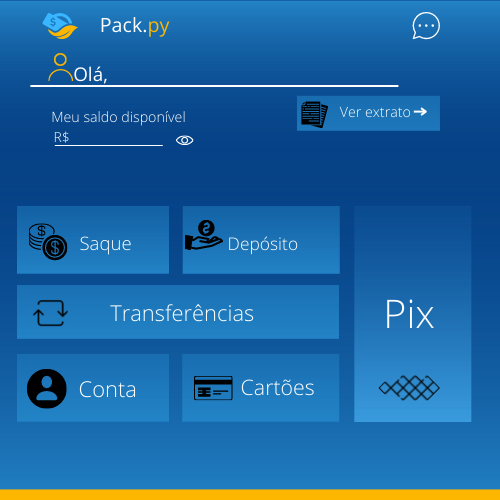
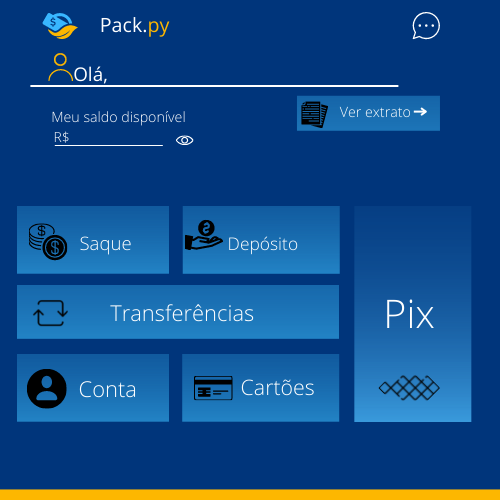
Atv's Bank v1.4

diff --git a/UC-05 - Desenvolver aplicações desktop/Banco Tkinter/PackPy/PACK.PY/packfront.py b/UC-05 - Desenvolver aplicações desktop/Banco Tkinter/PackPy/PACK.PY/packfront.py
@@ -127,6 +127,8 @@ user = PhotoImage(file='Foto/conta cliente.png')
 on_image = PhotoImage(file='Foto/olho aberto.png')
 off_image = PhotoImage(file='Foto/olho fechado.png')
 cliente = PhotoImage(file='Foto/user.png')
+depo = PhotoImage(file='Foto/Bt_Depósito.png')
+extra = PhotoImage(file='Foto/Bt_Extrato.png')
 # ==============================================================================================================
 # primeira tela (mostra a logo)
 lb_inicio = Label(frame_i, image=inicio, border=0)
@@ -207,15 +209,23 @@ check_email.place(width=8, height=9, x=263, y=265)
 # tela conta
 # labels
 lb_user = Label(frame_conta, image=user, border=0)
+lb_nome_user = Label(frame_conta, text='sus', font='Arial 15 bold', bg=azul_esc, fg=branco, bd=0)
+lb_saldo = Label(frame_conta, text='0', font='Arial 10 bold', bg=azul_esc, fg=branco, bd=0)
 # botoes
 bt_voltar_conta = Button(frame_conta, image=seta_voltar, bg='#1E90FF', bd=0, activebackground=azul_esc,
                          command=lambda: [frame_cliente.pack(), frame_conta.forget()])
+bt_deposito = Button(frame_conta, image=depo, bd=0, activebackground=azul_esc)
+bt_extrato = Button(frame_conta, image=extra, bd=0, activebackground=azul_esc)
 # check_buttons
 check_saldo = Checkbutton(frame_conta, bg=azul_esc, image=on_image, selectimage=off_image, indicatoron=False, bd=0)
 # posionamento na tela
 lb_user.pack()
 bt_voltar_conta.place(width=38, height=36, x=2, y=9)
+bt_deposito.place(width=155, height=68, x=183, y=204)
+bt_extrato.place(width=144, height=37, x=297, y=93)
 check_saldo.place(width=30, height=22, x=175, y=130)
+lb_nome_user.place(width=60, height=18, x=111, y=65)
+lb_saldo.place(width=25, height=11, x=74, y=129)
 # ==============================================================================================================
 # tela cliente login
 # labels
@@ -227,9 +237,8 @@ en_cliente_senha = Entry(frame_cliente, font='arial 12 bold', bg=branco, border=
 bt_voltar_cliente = Button(frame_cliente, image=seta_voltar, bg=azul_esc, bd=0, activebackground=azul_esc,
                            command=lambda: [frame_entrar.pack(), frame_cliente.forget()])
 bt_entrar_cliente = Button(frame_cliente, text='Entrar', bg=azul_esc, font='arial 19 bold', bd=0, fg=branco,
-                           command=lambda: Back.Entrar_cli(en_cliente_user.get(), en_cliente_senha.get(), frame_conta,
-                                                           frame_entrar, frame_cliente))
-# [frame_conta.pack(), frame_entrar.forget(), frame_cliente.forget()]
+                           command=lambda: [Back.Entrar_cli(en_cliente_user.get(), en_cliente_senha.get(), frame_conta,
+                                                            frame_entrar, frame_cliente)])
 # checks
 check_senha_us = Checkbutton(frame_cliente, bg=branco, image=on_image, selectimage=off_image, indicatoron=False, bd=0,
                              command=lambda: Back.Mostrar_senha(en_cliente_senha))

diff --git a/UC-05 - Desenvolver aplicações desktop/Banco Tkinter/PackPy/PACK.PY/packdata.py b/UC-05 - Desenvolver aplicações desktop/Banco Tkinter/PackPy/PACK.PY/packdata.py
@@ -9,10 +9,10 @@ class pack_data:
         self.func = ''
         self.cli = ''
 
-    def Cadastrar(self, nome, cpf, data, genero, email, senha):
+    def Cadastrar(self, nome, cpf, data, genero, email, senha,saldo):
         # realiza o cadastro no banco de dados
-        self.cursor.execute(f'INSERT INTO cliente (cpf, nome, dataNasc, genero, email, senha) VALUES'
-                            f'("{cpf}","{nome}","{data}","{genero}","{email}","{senha}")')
+        self.cursor.execute(f'INSERT INTO cliente (cpf, nome, dataNasc, genero, email, senha, saldo) VALUES'
+                            f'("{cpf}","{nome}","{data}","{genero}","{email}","{senha}","{saldo}")')
         self.conectar.commit()
 
     def Check_func(self, entry_id, entry_senha):

diff --git a/UC-05 - Desenvolver aplicações desktop/Banco Tkinter/PackPy/PACK.PY/packback.py b/UC-05 - Desenvolver aplicações desktop/Banco Tkinter/PackPy/PACK.PY/packback.py
@@ -14,7 +14,7 @@ class Backend:
 
     def Cadastrar(self, cpf, nome, datanasc, email, senha, conf, c_m, c_f, c_a, c_e, frame_func, frame_cadas):
         if messagebox.askyesno('confirmar', 'salvar dados?'):
-            self.Data.Cadastrar(cpf.get(), nome.get(), datanasc.get(), 'M', email.get(), senha.get())
+            self.Data.Cadastrar(cpf.get(), nome.get(), datanasc.get(), 'M', email.get(), senha.get(), 0)
             nome.delete(0, 'end')
             cpf.delete(0, 'end')
             datanasc.delete(0, 'end')
@@ -44,3 +44,4 @@ class Backend:
             frame_cli.forget()
         else:
             messagebox.showerror('Acesso Negado', 'conta desconhecida, tente novamente')
+

diff --git a/UC-05 - Desenvolver aplicações desktop/Banco Tkinter/PackPy/PACK.PY/Pack_PY.PY b/UC-05 - Desenvolver aplicações desktop/Banco Tkinter/PackPy/PACK.PY/Pack_PY.PY
@@ -1,8 +1,5 @@
 from packfront import *
 from packback import *
 from packdata import *
-Front = FrontEnd()
 Data = pack_data()
-Data.conectar()
-
-
+Data.Close()
